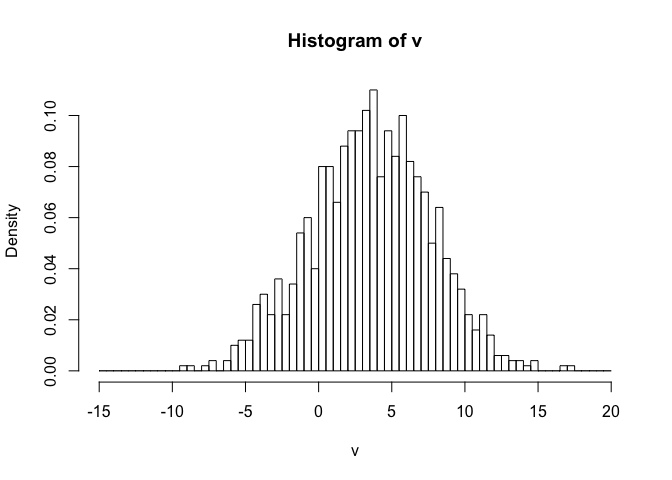
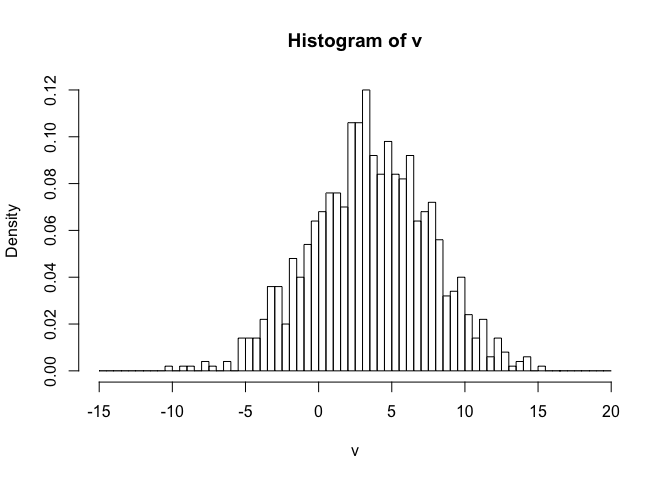
more updates

diff --git a/module-08/module-08.md b/module-08/module-08.md
@@ -679,20 +679,20 @@ The `qnorm()` function will tell us the value of *x* below which a given proport
 > mean(v)
 ```
 
-    ## [1] 3.567516
+    ## [1] 3.55456
 
 ``` r
 > var(v)
 ```
 
-    ## [1] 16.71475
+    ## [1] 16.19427
 
 ``` r
 > se <- sqrt(var(v)/N)
 > se
 ```
 
-    ## [1] 0.1292855
+    ## [1] 0.1272567
 
 ``` r
 > hist(v, breaks = seq(from = -15, to = 20, by = 0.5), probability = TRUE)
